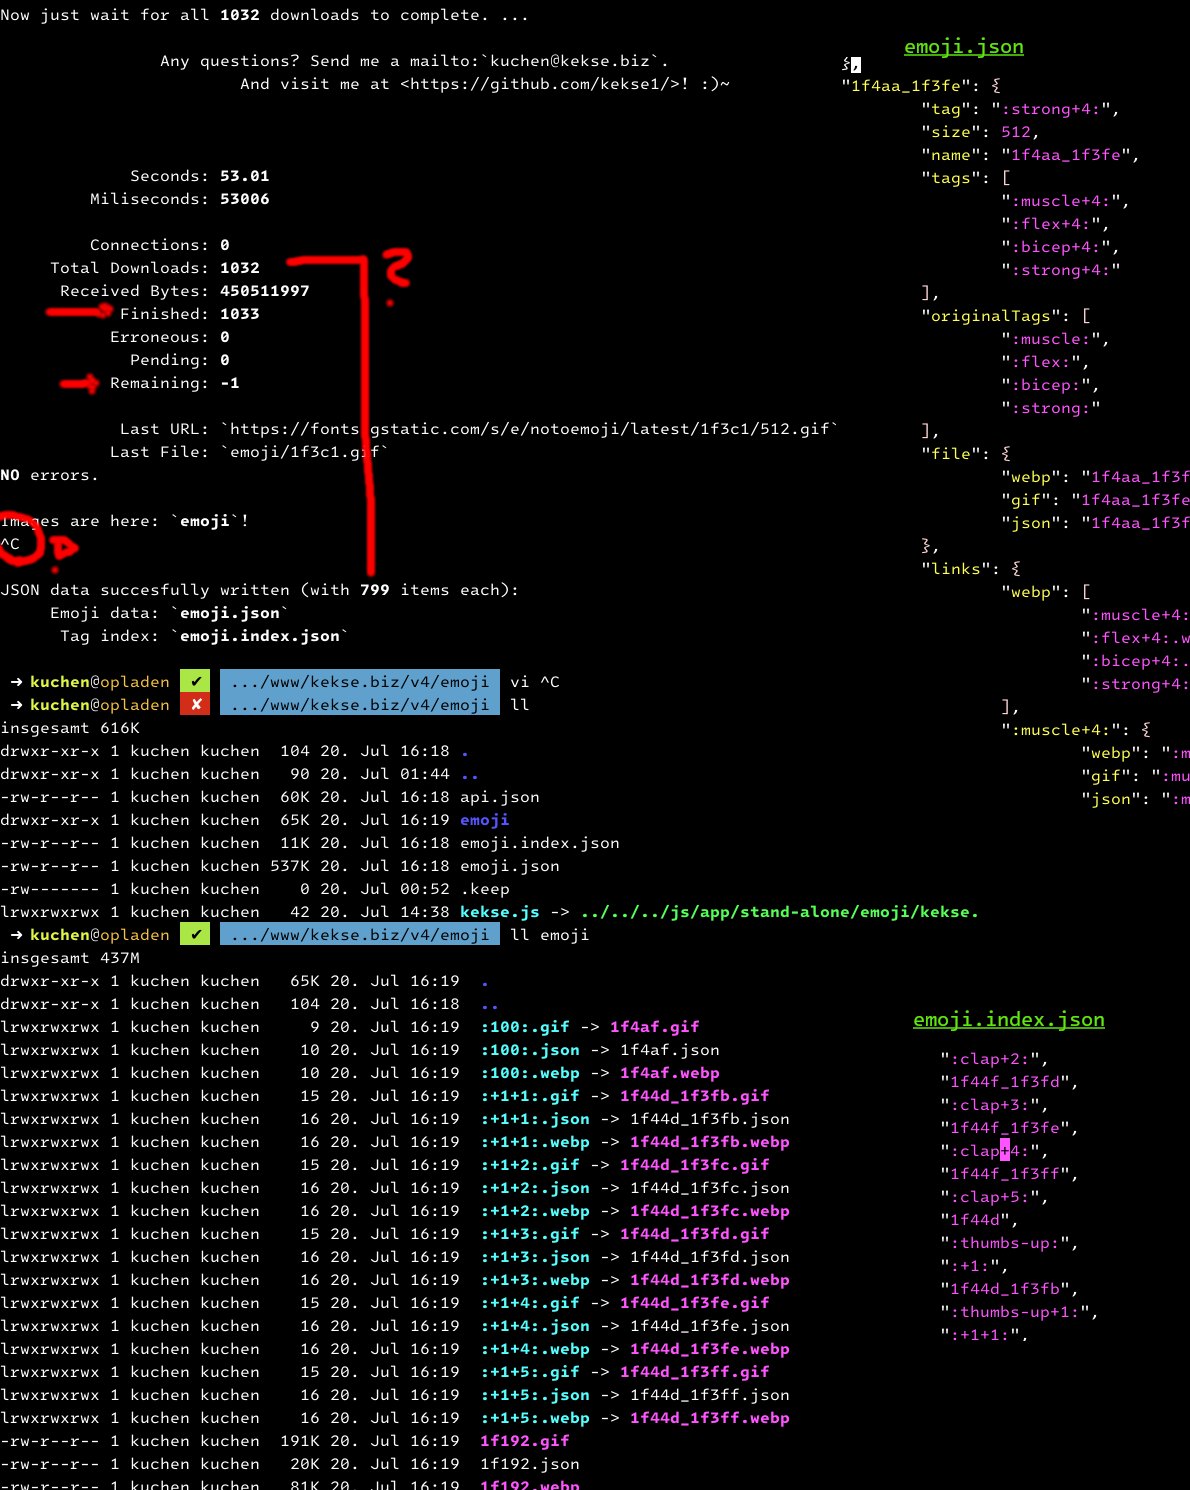
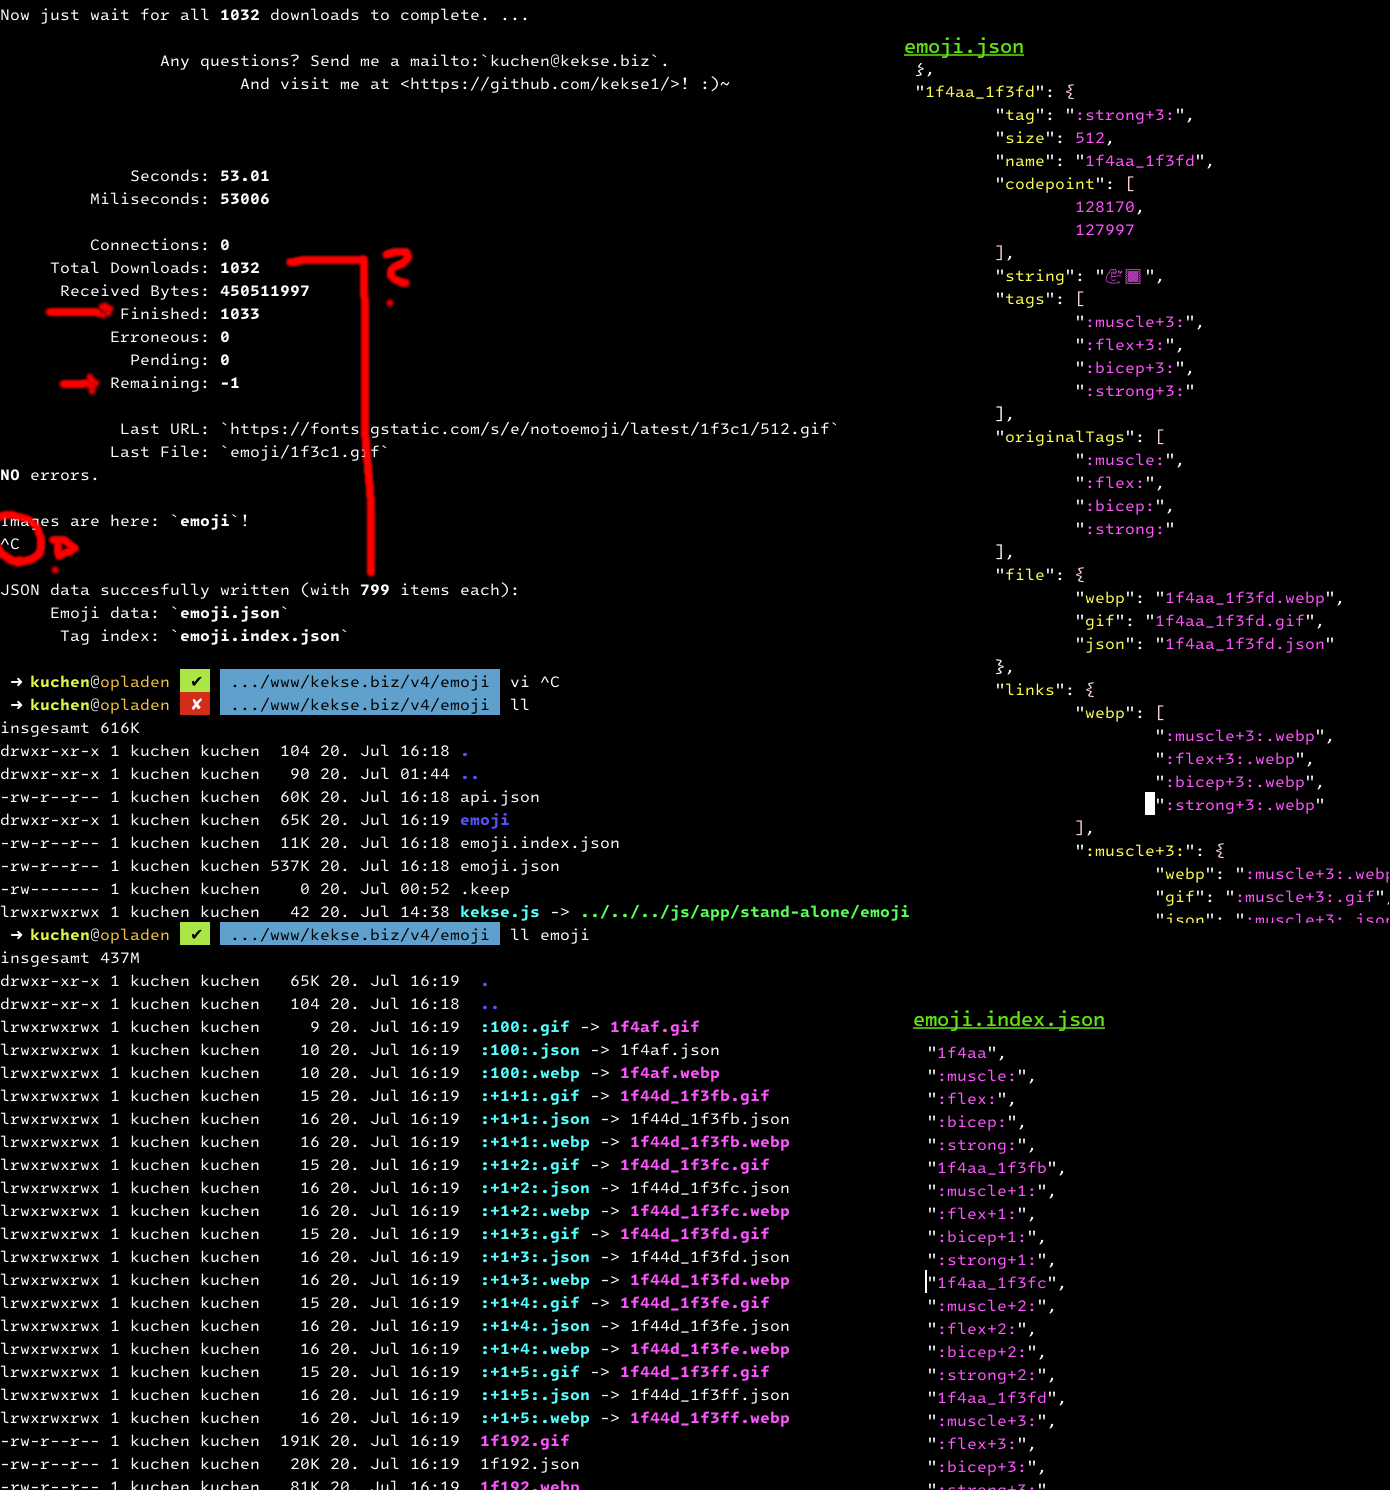
Donnerstag, 2023-07-20 (16:51:53)

diff --git a/src/kekse.emoji.js b/src/kekse.emoji.js
@@ -16,7 +16,7 @@ const http = require('http');
 
 //
 const beautifyJSON = '\t';	// if nothing's here, the resulting .json's will be as 'compact' as possible
-const download = true;		// should all the emojis also be downloaded (see `emojiPath` below)
+const download = false;		// should all the emojis also be downloaded (see `emojiPath` below)
 const debug = false;		// will show every download error, instead of just updating the status output
 const instantStop = false;	// will stop process on the first download error; otherwise all errors are counted
 const connectionChunkSize = 2048;// max. length of every chunk/fragment being downloaded [if <= 0 || !number => default]
@@ -481,11 +481,11 @@ const routine = () => {
 			data[dataIndex - 1] = [ ... data[dataIndex - 1] ];
 		}
 		
-		result[name] = { tag, size, name, tags: [ ... tags ], originalTags, file: { ... file }, links: { ... links }, string };
+		result[name] = { tag, size, name, codepoint, string, tags: [ ... tags ], originalTags, file: { ... file }, links: { ... links } };
 		
 		for(var j = 0; j < tags.length; ++j)
 		{
-			result[tags[j]] = { tag, size, name, tags: [ ... tags ], originalTags, file: { ... file }, links: { ... links }, string };
+			result[tags[j]] = { tag, size, name, codepoint, string, tags: [ ... tags ], originalTags, file: { ... file }, links: { ... links } };
 		}
 	}
 
